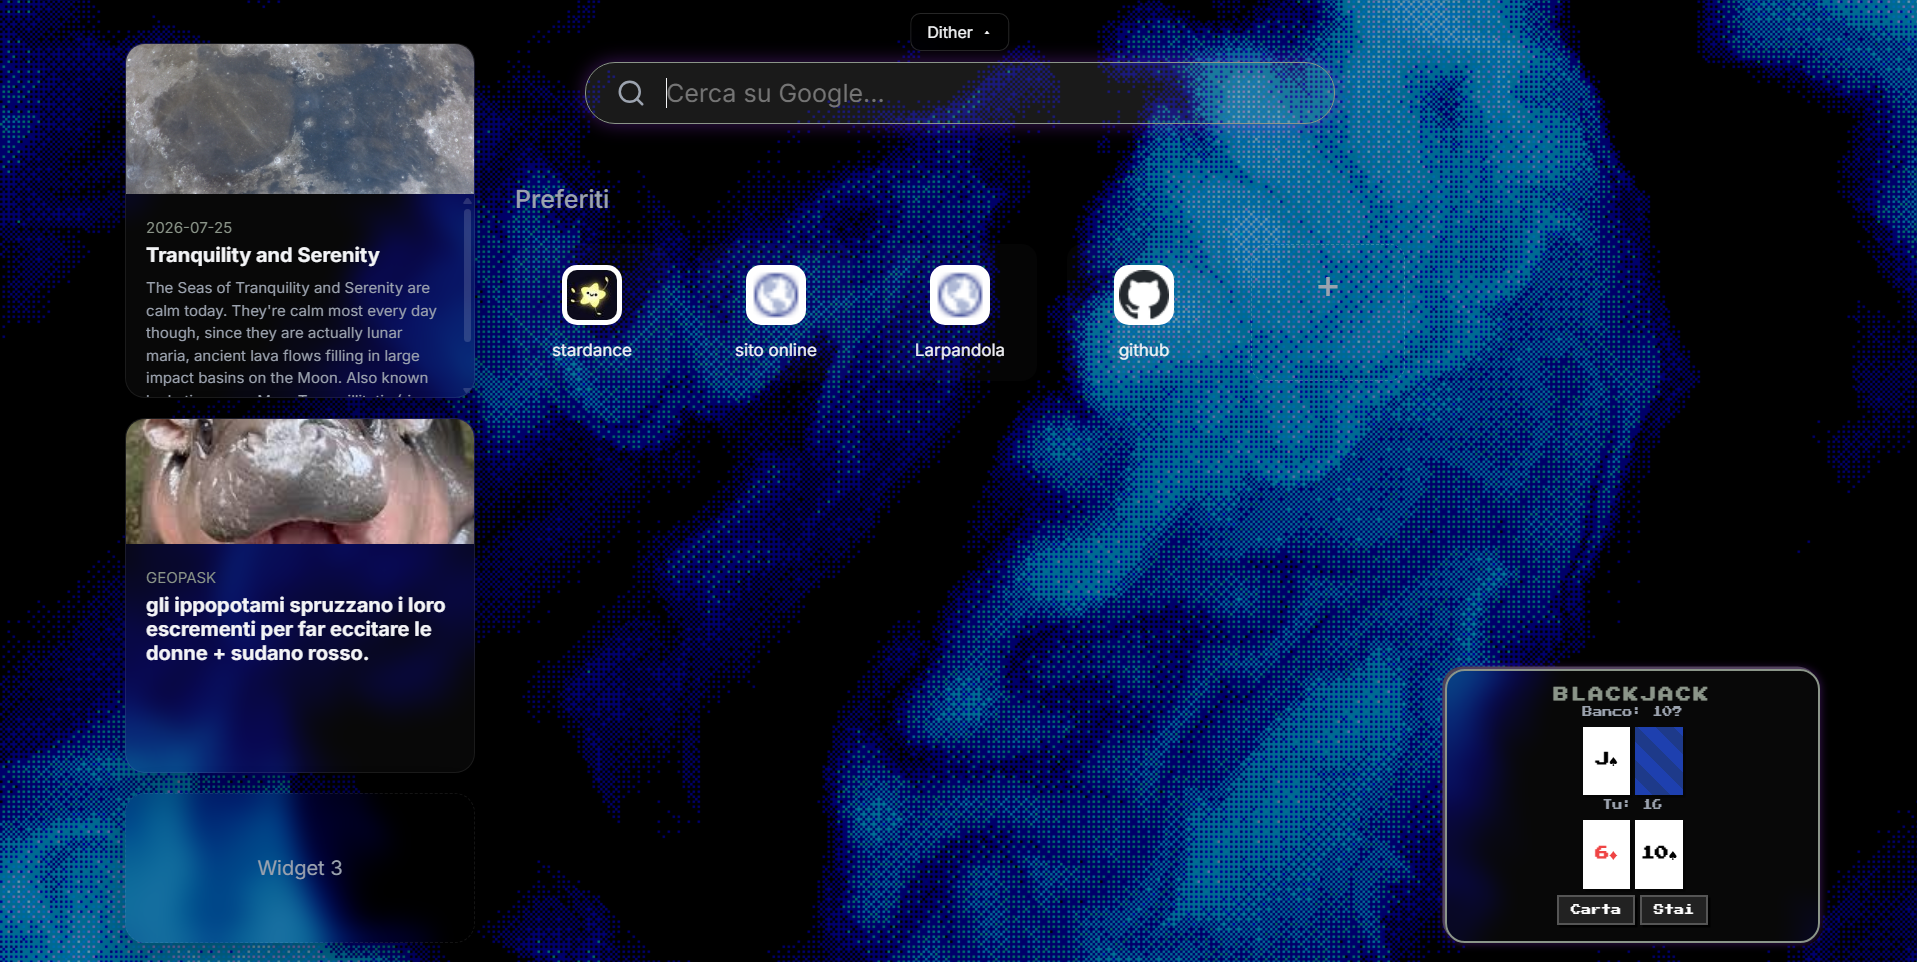
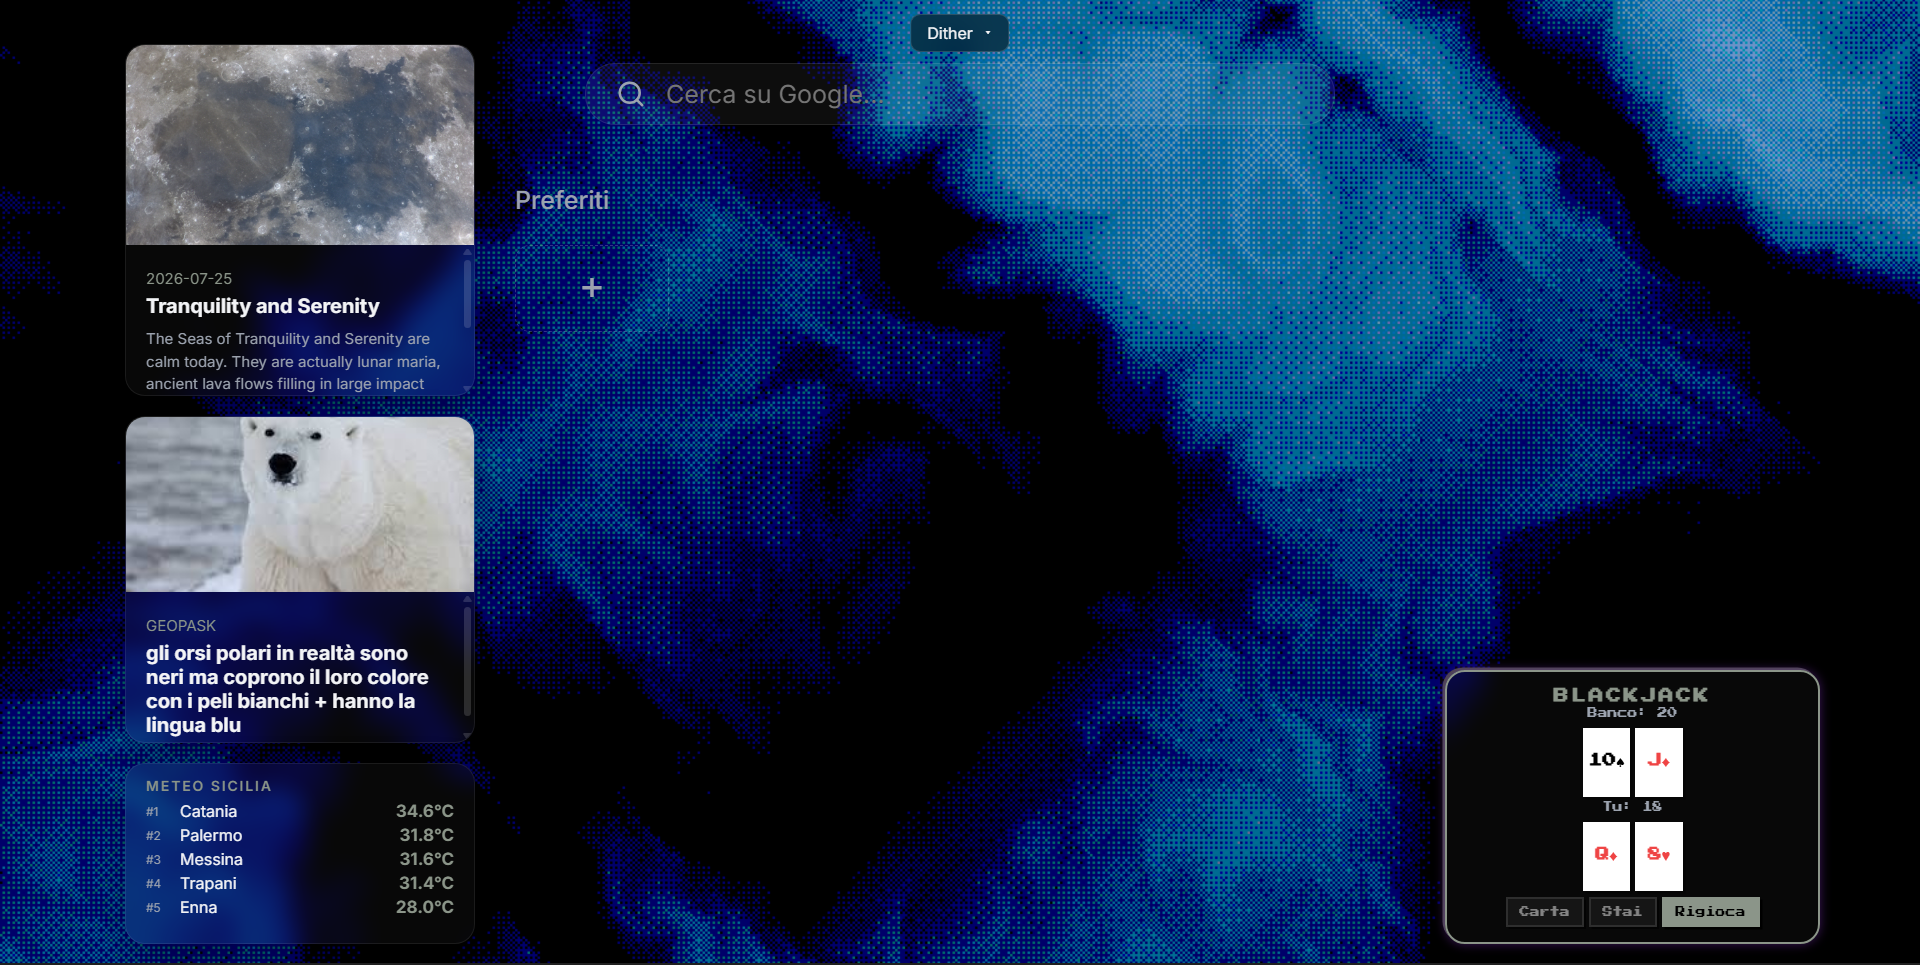
foto demo aggiornata

diff --git a/README.md b/README.md
@@ -18,7 +18,7 @@ started from the stardance mission to give a pulse to a website and it was a ran
 
 ## Credits
 
-- Shoutout to DeepSeek v4 FLASH for helping when the code didn't work (hopefully it works now)
+- Shoutout to DeepSeek v4 FLASH for helping when the code didn't work and all the times the apis didn't work (hopefully they work now)
 - [Reactbits](https://reactbits.dev) for the Dither and galaxy background
 - [DietrichGebert/ponytail](https://github.com/DietrichGebert/ponytail) for keeping the code minimal
 - NASA for the APOD API
